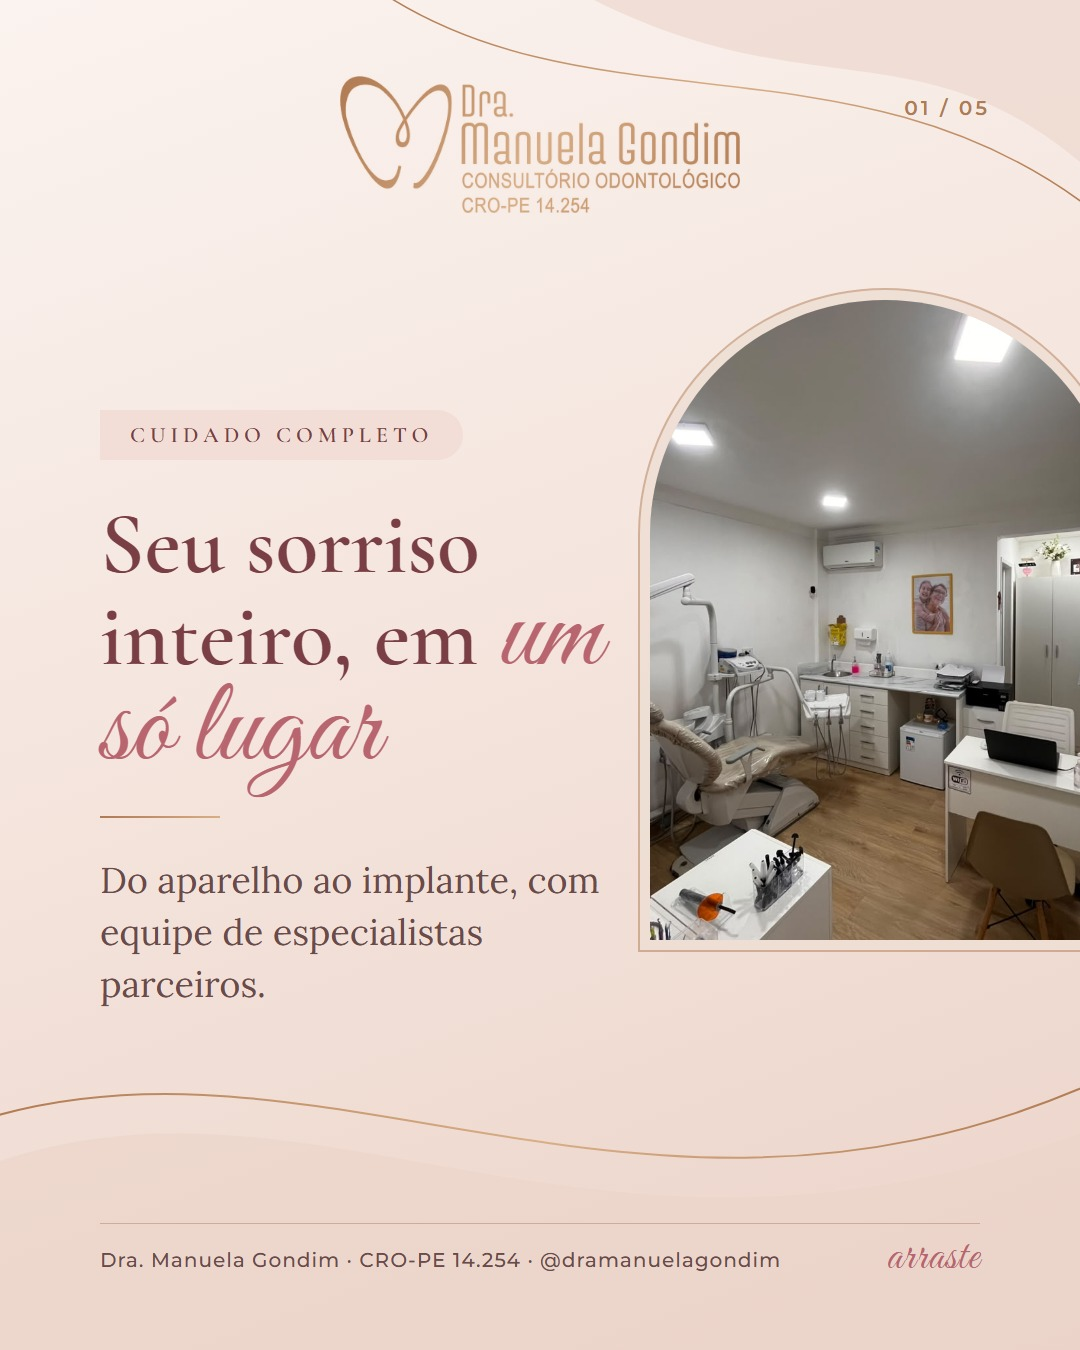
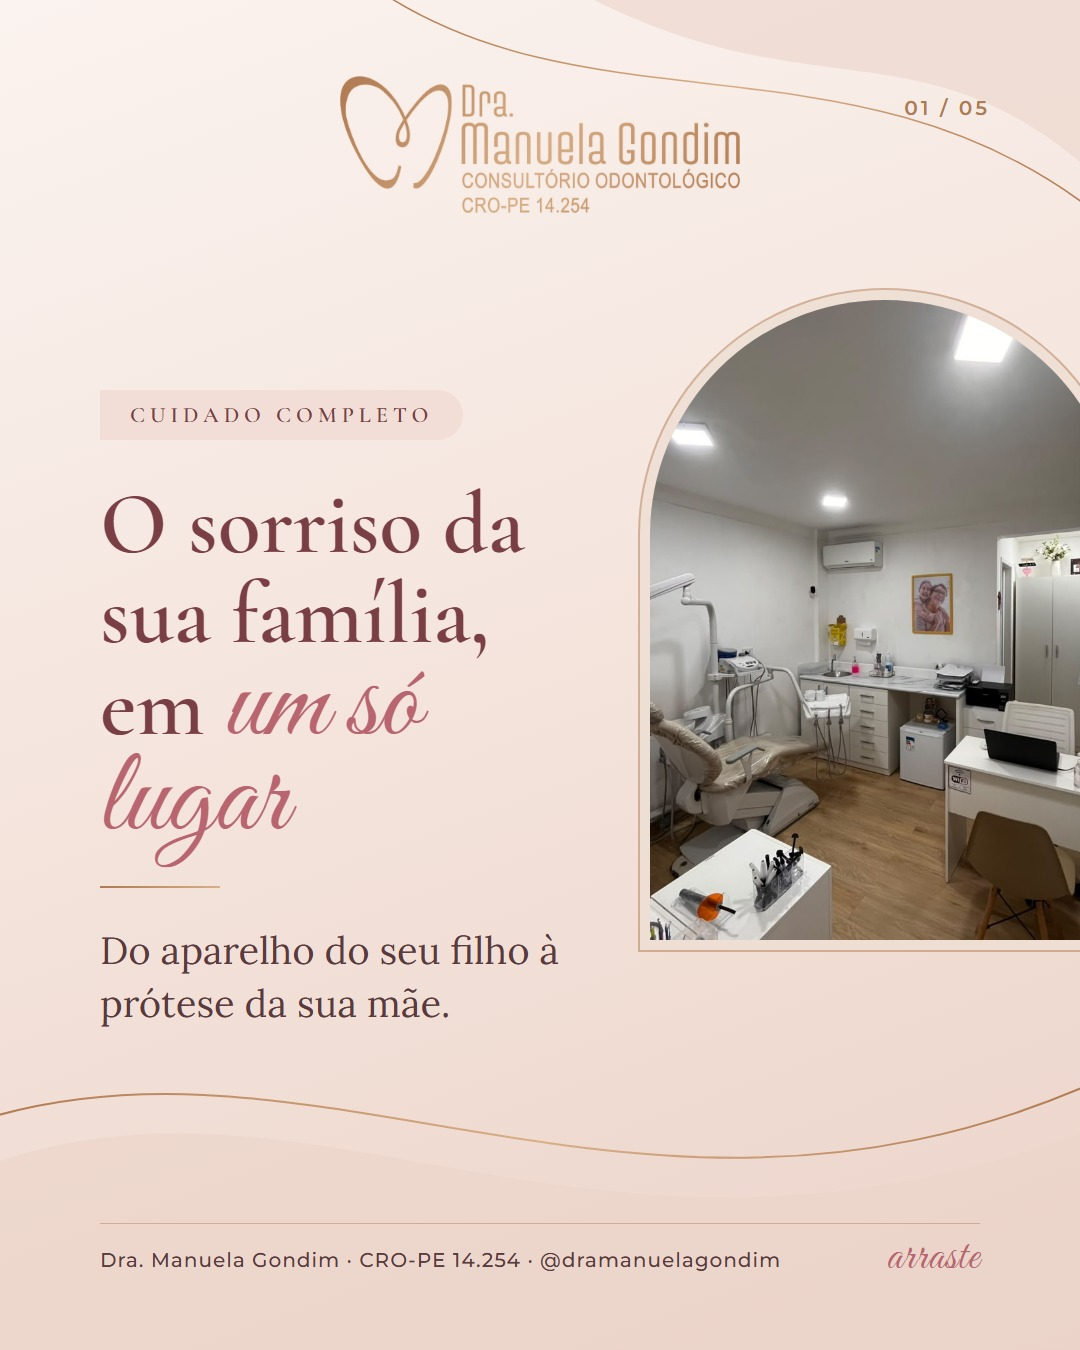
Conteúdo direcionado ao público (mulheres 25-54, Olinda e Paulista); bot sem IA paga; substitui mensagens antigas

diff --git a/posts/previa.html b/posts/previa.html
@@ -12,34 +12,38 @@ pre{white-space:pre-wrap;font-family:inherit;font-size:14px;line-height:1.5;back
 </style></head><body><h1>Prévia de conteúdo</h1>
         <article>
           <header><b>2026-11-03 · 12:00</b>
-            <span>carrossel · educa</span>
+            <span>carrossel · familia</span><span class="revisar">⚠ revisar</span>
             <span class="status">rascunho</span></header>
-          <div class="slides"><img src="2026-11-03-cuidados-aparelho/slide-01.jpg" loading="lazy"><img src="2026-11-03-cuidados-aparelho/slide-02.jpg" loading="lazy"><img src="2026-11-03-cuidados-aparelho/slide-03.jpg" loading="lazy"><img src="2026-11-03-cuidados-aparelho/slide-04.jpg" loading="lazy"><img src="2026-11-03-cuidados-aparelho/slide-05.jpg" loading="lazy"><img src="2026-11-03-cuidados-aparelho/slide-06.jpg" loading="lazy"><img src="2026-11-03-cuidados-aparelho/slide-07.jpg" loading="lazy"></div>
-          <pre>Usar aparelho é um trabalho em equipe: eu cuido do planejamento e você cuida do dia a dia 😁🦷
+          <div class="slides"><img src="2026-11-03-sinais-aparelho-filho/slide-01.jpg" loading="lazy"><img src="2026-11-03-sinais-aparelho-filho/slide-02.jpg" loading="lazy"><img src="2026-11-03-sinais-aparelho-filho/slide-03.jpg" loading="lazy"><img src="2026-11-03-sinais-aparelho-filho/slide-04.jpg" loading="lazy"><img src="2026-11-03-sinais-aparelho-filho/slide-05.jpg" loading="lazy"><img src="2026-11-03-sinais-aparelho-filho/slide-06.jpg" loading="lazy"><img src="2026-11-03-sinais-aparelho-filho/slide-07.jpg" loading="lazy"><img src="2026-11-03-sinais-aparelho-filho/slide-08.jpg" loading="lazy"></div>
+          <pre>Mãe, esse post é pra você salvar 💕
 
-Separei 5 cuidados simples que fazem toda a diferença no resultado do tratamento. Salva esse post para consultar depois e manda para aquele amigo que acabou de colocar aparelho! 💖
+Muitas vezes a gente só pensa em aparelho quando os dentes já estão bem tortinhos. Mas alguns sinais aparecem bem antes — e observar cedo pode deixar o tratamento muito mais simples.
 
-Ficou com alguma dúvida? Me chama no WhatsApp pelo link da bio.
+Seu filho tem algum desses sinais? Me conta aqui nos comentários ou me chama no WhatsApp que eu te explico com calma 🦷✨
 
+📍 Olinda Shopping, sala 40 — pertinho de quem é de Olinda e de Paulista
+Cada caso é único: só a avaliação presencial define o melhor caminho.
 Dra. Manuela Gondim · CRO-PE 14.254
 
-#ortodontiaolinda #aparelhodental #dentistaolinda #ortodontista #sorriso #dentistarecife #olinda</pre>
+#ortodontiainfantil #dentistaolinda #dentistapaulista #paulistape #olinda #maternidade #aparelhodental</pre>
         </article>
         <article>
           <header><b>2026-11-04 · 19:00</b>
             <span>carrossel · mito-verdade</span>
             <span class="status">rascunho</span></header>
           <div class="slides"><img src="2026-11-04-mito-aparelho-adulto/slide-01.jpg" loading="lazy"><img src="2026-11-04-mito-aparelho-adulto/slide-02.jpg" loading="lazy"><img src="2026-11-04-mito-aparelho-adulto/slide-03.jpg" loading="lazy"><img src="2026-11-04-mito-aparelho-adulto/slide-04.jpg" loading="lazy"><img src="2026-11-04-mito-aparelho-adulto/slide-05.jpg" loading="lazy"></div>
-          <pre>&quot;Já passei da idade de usar aparelho&quot; — escuto muito isso aqui no consultório! 😅
+          <pre>&quot;Doutora, eu já passei da idade de usar aparelho&quot; — é uma das frases que eu mais escuto aqui no consultório 😅
 
-A verdade é que a ortodontia não tem idade: o que importa é a saúde da gengiva e dos ossos que sustentam os dentes. E hoje existem opções bem mais discretas do que aquele aparelho que a gente lembra da escola ✨
+E quase sempre vem de mulheres incríveis que cuidaram primeiro dos filhos, da casa, do trabalho… e deixaram o próprio sorriso para depois 💕
 
-Qual desses você achava que era verdade? Conta aqui nos comentários 👇
+A verdade é que a ortodontia não tem idade: o que importa é a saúde da gengiva e dos ossos. E hoje existem opções bem mais discretas do que aquele aparelho que a gente lembra da escola ✨
+
+Qual desses você achava que era verdade? Conta aqui 👇 E se quiser tirar dúvidas, me chama no WhatsApp.
 
 Cada caso é único — só a avaliação presencial define o melhor tratamento.
 Dra. Manuela Gondim · CRO-PE 14.254
 
-#ortodontiaadulto #aparelhodental #alinhadores #ortodontiaolinda #dentistaolinda #dentistarecife #sorriso</pre>
+#ortodontiaadulto #aparelhodental #alinhadores #autoestima #dentistaolinda #dentistapaulista #paulistape</pre>
         </article>
         <article>
           <header><b>2026-11-05 · 09:00</b>
@@ -55,14 +59,14 @@ Dra. Manuela Gondim · CRO-PE 14.254
             <span>carrossel · vitrine</span>
             <span class="status">rascunho</span></header>
           <div class="slides"><img src="2026-11-06-tudo-num-lugar/slide-01.jpg" loading="lazy"><img src="2026-11-06-tudo-num-lugar/slide-02.jpg" loading="lazy"><img src="2026-11-06-tudo-num-lugar/slide-03.jpg" loading="lazy"><img src="2026-11-06-tudo-num-lugar/slide-04.jpg" loading="lazy"><img src="2026-11-06-tudo-num-lugar/slide-05.jpg" loading="lazy"></div>
-          <pre>Sabe aquela correria de ir num dentista para cada coisa? Aqui não precisa 💖
+          <pre>Sabe aquela correria de levar cada um da família num dentista diferente? Aqui não precisa 💖
 
-No consultório você encontra cuidado completo para o sorriso: ortodontia, clareamento, estética, implantes, próteses, canal, cirurgias e prevenção. Eu faço a sua avaliação e, quando o caso pede outra especialidade, você conta com a nossa equipe de especialistas parceiros 🦷✨
+No consultório você encontra cuidado completo para o sorriso de todo mundo: ortodontia (de criança e de adulto), clareamento, estética, implantes, próteses, canal, cirurgias e prevenção. Eu faço a avaliação e, quando o caso pede outra especialidade, vocês contam com a nossa equipe de especialistas parceiros 🦷✨
 
-📍 Olinda Shopping, sala 40 — Bairro Novo, Olinda
+📍 Olinda Shopping, sala 40 — Bairro Novo, pertinho de Paulista
 📲 Agende pelo WhatsApp no link da bio
 
 Dra. Manuela Gondim · CRO-PE 14.254
 
-#dentistaolinda #dentistarecife #ortodontiaolinda #implantedentario #clareamentodental #odontologia #olinda</pre>
+#dentistaolinda #dentistapaulista #paulistape #ortodontiainfantil #protesedentaria #clareamentodental #olinda</pre>
         </article></body></html>

diff --git a/scripts/bot.py b/scripts/bot.py
@@ -5,7 +5,7 @@
 
 Roda no GitHub Actions (.github/workflows/bot.yml). Variáveis de ambiente:
     TELEGRAM_TOKEN, TELEGRAM_CHAT_IDS (separados por vírgula), REPO_RAW_URL
-    ANTHROPIC_API_KEY (opcional): sem ela, o pedido de ajuste fica anotado no post para o agente semanal.
+O bot não usa IA (custo zero): pedidos de ajuste ficam anotados no post e a rotina diária do agente aplica.
 
 Quem aprova é só quem está em TELEGRAM_CHAT_IDS; mensagens de outras pessoas são ignoradas.
 """
@@ -13,12 +13,10 @@ import datetime
 import hashlib
 import json
 import os
-import re
 import sys
 from pathlib import Path
 
 import requests
-import yaml
 
 import posts
 
@@ -26,7 +24,6 @@ TOKEN = os.environ.get("TELEGRAM_TOKEN", "")
 CHATS = {int(c) for c in os.environ.get("TELEGRAM_CHAT_IDS", "").split(",") if c.strip()}
 RAW = os.environ.get("REPO_RAW_URL", "").rstrip("/")
 ESTADO = posts.RAIZ / "estado" / "telegram.json"
-PRECISA_RENDER = posts.RAIZ / ".precisa_render"  # pastas a re-renderizar, uma por linha
 
 ROTULO = {"aprovado": "✅ Aprovado", "recusado": "❌ Recusado", "ajuste": "✏ Em ajuste"}
 
@@ -81,7 +78,14 @@ def enviar():
         imagens = sorted(pasta.glob("slide-*.jpg"))
         if not imagens:
             continue
+        antiga = post.pop("substitui_msg", None)
         for chat in CHATS:
+            if antiga:  # tira os botões da versão anterior para não aprovar a errada
+                try:
+                    tg("editMessageText", chat_id=chat, message_id=antiga,
+                       text="🔄 Substituído por uma versão nova (logo abaixo).")
+                except RuntimeError:
+                    pass
             midia = [{"type": "photo", "media": url_imagem(pasta, i)} for i in imagens[:10]]
             if len(midia) == 1:
                 tg("sendPhoto", chat_id=chat, photo=midia[0]["media"])
@@ -153,59 +157,13 @@ def tratar_texto(msg):
                         "toque em ✏ Ajustar no post e depois me escreva o que quer.")
         return
 
+    # Sem custo extra: o bot só anota o pedido; quem aplica é a rotina diária do agente (dentro da assinatura).
     post = posts.carregar(pendente)
     post.pop("aguardando_ajuste", None)
     post.setdefault("pedidos_ajuste", []).append(texto)
-
-    if not os.environ.get("ANTHROPIC_API_KEY"):
-        posts.salvar(pendente, post)
-        responder(chat, "Anotei o seu pedido ✍ O ajuste será feito na próxima rodada de criação dos posts.")
-        return
-
-    responder(chat, "Ajustando… em alguns minutos te mando a nova versão ⏳")
-    try:
-        novo = reescrever(post, texto)
-    except Exception as e:  # falha da IA não pode travar o bot
-        print(f"ajuste falhou: {type(e).__name__}: {e}")
-        posts.salvar(pendente, post)
-        responder(chat, "Não consegui ajustar agora 😕 Deixei o pedido anotado para a próxima rodada.")
-        return
-    posts.salvar(pendente, novo)
-    with PRECISA_RENDER.open("a", encoding="utf-8") as f:
-        f.write(pendente.name + "\n")
-    print(f"ajustado: {pendente.name}")
-
-
-def reescrever(post: dict, pedido: str) -> dict:
-    import anthropic
-
-    contexto = "\n\n".join((posts.RAIZ / arq).read_text(encoding="utf-8")
-                           for arq in ("CLAUDE.md", "marca/guia.md", "marca/estrategia.md"))
-    atual = {k: v for k, v in post.items() if k not in ("telegram_msg", "pedidos_ajuste")}
-    resposta = anthropic.Anthropic().beta.messages.create(
-        model="claude-opus-5-5",
-        max_tokens=16000,
-        output_config={"effort": "medium"},
-        betas=["server-side-fallback-2026-07-01"],
-        fallbacks="default",
-        system=[{"type": "text", "text": contexto, "cache_control": {"type": "ephemeral"}}],
-        messages=[{"role": "user", "content": (
-            "A Dra. Manuela pediu um ajuste neste post. Reescreva o post.yaml aplicando o pedido, "
-            "respeitando o guia de marca e as regras do CFO. Mantenha data e hora, a menos que ela peça para mudar. "
-            "Responda somente com o YAML completo, sem explicações.\n\n"
-            f"Pedido da Dra.: {pedido}\n\npost.yaml atual:\n"
-            + yaml.safe_dump(atual, allow_unicode=True, sort_keys=False, default_flow_style=False))}],
-    )
-    if resposta.stop_reason == "refusal":
-        raise RuntimeError("pedido recusado pelo modelo")
-    texto = next(b.text for b in resposta.content if b.type == "text")
-    texto = re.sub(r"^```(?:yaml)?\s*|\s*```$", "", texto.strip())
-    novo = yaml.safe_load(texto)
-    if not isinstance(novo, dict) or not novo.get("slides"):
-        raise ValueError("resposta sem slides")
-    novo["status"] = "rascunho"  # volta para aprovação
-    novo["pedidos_ajuste"] = post.get("pedidos_ajuste", [])
-    return novo
+    posts.salvar(pendente, post)
+    responder(chat, "Anotei o seu pedido ✍ Amanhã cedo te mando a nova versão para aprovar.")
+    print(f"pedido de ajuste anotado: {pendente.name}")
 
 
 def processar():

diff --git a/marca/estrategia.md b/marca/estrategia.md
@@ -5,7 +5,7 @@
 ## Objetivo
 
 1. Manter o perfil **sempre ativo** sem depender da disposição da Dra. Manuela.
-2. Posicionar como **ortodontista em Olinda** (foco vende; a amplitude multidisciplinar aparece na avaliação).
+2. Posicionar como **a dentista de confiança da mulher de Olinda e Paulista — e da família dela** (foco vende; a amplitude multidisciplinar aparece na avaliação).
 3. Converter seguidores em **conversas no WhatsApp → avaliações**. O anúncio vende resultado e autoridade, nunca preço.
 
 ## Linhas que puxam a captação
@@ -26,13 +26,16 @@ Horários padrão: feed às **12h** ou **19h**; stories às **9h**.
 
 ### Banco de pautas automáticas (quando não há material da Dra.)
 
-| Pilar | Peso | Exemplos |
+Público-alvo: ver `marca/publico.md` — mulher de 25 a 54 anos, mãe, de Olinda/Paulista ("Carla", 38).
+
+| Pilar | Peso | Exemplos (sempre pensando na Carla) |
 |---|---|---|
-| Educa — dúvidas e cuidados | 35% | Quanto tempo dura o aparelho? Lente × faceta × clareamento. Por que a dentadura solta? |
-| Mito ou verdade | 20% | "Aparelho é só para adolescente" — MITO |
-| Vitrine multidisciplinar | 15% | Implantes, clareamento, próteses — "tudo num só lugar" |
-| Conexão — bastidores, biossegurança, Olinda | 15% | Planejamento de um caso, tecnologia usada, datas |
-| Convite — CTA para avaliação | 15% | "Seu sorriso merece uma avaliação" |
+| Ela mesma — autoestima e "nunca é tarde" | 25% | Aparelho discreto em adulta; lente × faceta × clareamento; "um dia eu cuido de mim" é hoje |
+| A família dela — filhos | 20% | Quando levar o filho ao ortodontista? Sinais na infância; chupeta e respiração pela boca |
+| Mito ou verdade | 15% | "Aparelho é só para adolescente" — MITO |
+| Conexão — a Dra., bastidores, Olinda/Paulista | 20% | Rotina, vôlei de praia, viagens de estudo, o consultório (é o que mais engaja) |
+| 45+ — voltar a sorrir | 10% | Próteses, reabilitação, "sorrir sem vergonha" (para ela ou para a mãe dela) |
+| Convite — CTA para avaliação | 10% | "Me chama no WhatsApp que eu te explico" |
 
 Regras:
 - Pelo menos 1 post por semana termina com convite para a consulta de avaliação (WhatsApp).
@@ -54,5 +57,6 @@ Regras:
 
 ## Hashtags base (escolher 5–8 por post)
 
-#ortodontiaolinda #ortodontistaolinda #dentistaolinda #dentistarecife #aparelhodental
-#sorriso #olinda #recife #alinhadores #clareamentodental #protesedentaria #lentesdecontato
+#ortodontiaolinda #dentistaolinda #dentistapaulista #paulistape #dentistarecife #aparelhodental
+#sorriso #olinda #recife #alinhadores #clareamentodental #protesedentaria #autoestima #ortodontiainfantil
+(Sempre incluir ao menos uma de Olinda e uma de Paulista.)

diff --git a/marca/publico.md b/marca/publico.md
@@ -1,0 +1,44 @@
+# Público — quem segue @dramanuelagondim
+
+> Fonte: Meta Business Suite → Insights → Público e Conteúdo (consulta de 31/10/2026, 2.759 seguidores).
+> Atualizar a cada 3 meses.
+
+## Dados
+
+| Faixa | Mulheres | Homens |
+|---|---|---|
+| 18–24 | 3,8% | 1,3% |
+| 25–34 | **22,3%** | 7,5% |
+| 35–44 | **28,7%** | 6,0% |
+| 45–54 | **15,6%** | 3,9% |
+| 55–64 | 6,2% | 1,8% |
+| 65+ | 2,5% | 0,4% |
+
+- **79% mulheres.** Mulheres de 25 a 54 anos = **2 em cada 3 seguidores**.
+- **Cidades:** Olinda 47,8% · **Paulista 21,8%** · Recife 13% · Jaboatão 1,5% · Abreu e Lima 1,2% · Igarassu 0,8%.
+- **O que performa:** stories pessoais (viagem, vôlei de praia aos domingos, "meu cantinho") têm até 2,5× a
+  visualização dos stories de procedimento. Antes e depois impulsionado: 16 conversas a R$ 5,33 cada (out/2026).
+- **Gargalo:** taxa de resposta das mensagens 10,7% (out/2026).
+
+## Persona principal: "Carla", 38 anos, de Olinda ou Paulista
+
+- Mãe, trabalha fora, cuida da casa e da família — **decide a saúde dos filhos** e, muitas vezes, do marido e dos pais.
+- Vaidosa, quer se sentir bonita e confiante, mas **se coloca por último**: "um dia eu cuido de mim".
+- Tem vergonha de algum detalhe do sorriso (dente torto, escurecido, falha). Acha que "passou da idade" para aparelho.
+- Confia em quem é próxima e real: segue a Dra. porque gosta **dela** (rotina, vôlei, consultório), não só da dentista.
+- Medo de dor e de "orçamento que não cabe" — responde bem a acolhimento e explicação simples.
+
+Personas secundárias: **mulher 45–54** (próteses, "voltar a sorrir sem vergonha", reabilitação) e
+**a mãe pelo filho** (ortodontia infantil e adolescente).
+
+## Como isso muda o conteúdo
+
+1. **Fale com ela:** linguagem acolhedora, feminina sem ser infantil; exemplos do dia a dia de mulher e mãe.
+2. **Três frentes de pauta**, em rodízio:
+   - **Ela mesma** — autoestima, "nunca é tarde", aparelho estético/alinhadores, clareamento, lentes.
+   - **A família dela** — "quando levar meu filho ao ortodontista?", sinais na infância, hábitos (chupeta, respirar pela boca).
+   - **A mãe/sogra/tia dela (45+)** — próteses, reabilitação, "sorrir sem vergonha".
+3. **Humanização é o que mais engaja:** pelo menos 1 post/semana de bastidor ou da vida da Dra.
+   (rotina, vôlei de praia, viagens de estudo, o "cantinho" do consultório). Peça material à Dra. via `pautas/`.
+4. **Local:** cite **Olinda e Paulista** (não só Olinda). Olinda Shopping, Bairro Novo, é pertinho de Paulista.
+5. **CTA:** convite leve e acolhedor ("me chama no WhatsApp que eu te explico"), nunca pressão.

diff --git a/CLAUDE.md b/CLAUDE.md
@@ -6,9 +6,10 @@ Instagram @dramanuelagondim sempre ativo, educativo e convidando para avaliaçã
 ## Antes de criar qualquer coisa, leia
 
 1. `marca/guia.md` — dados, tom de voz e **regras do CFO (obrigatórias)**.
-2. `marca/estrategia.md` — frequência, pilares e datas.
-3. `posts/` — os posts das últimas semanas, para **não repetir tema** e manter o rodízio de pilares.
-4. `pautas/` — se existir algum arquivo ali, é um pedido específico da Dra. Manuela: priorize.
+2. `marca/publico.md` — **quem segue a Dra.** (79% mulheres, 25–54 anos, Olinda e Paulista). Escreva para ela.
+3. `marca/estrategia.md` — frequência, pilares e datas.
+4. `posts/` — os posts das últimas semanas, para **não repetir tema** e manter o rodízio de pilares.
+5. `pautas/` — se existir algum arquivo ali, é um pedido específico da Dra. Manuela: priorize.
 
 ## Tarefa semanal
 

diff --git a/README.md b/README.md
@@ -39,7 +39,7 @@ Abra `posts/previa.html` para ver a semana.
 - [x] Gerador de artes + prévia
 - [x] Publicador automático (Instagram Graph API + GitHub Actions) — falta [configurar o token](docs/configurar-instagram.md)
 - [x] Bot do Telegram ("Sandra", @SecretariaDrManuela_bot): aprovação ✅ ✏ ❌ a cada 10 min (7h–0h)
-- [ ] Ajuste por IA no bot — falta o segredo `ANTHROPIC_API_KEY`
+- [x] Ajustes sem custo extra: o bot anota, a rotina diária do agente aplica (assinatura)
 - [ ] Envio de vídeos/Reels pela Dra. no bot
 - [ ] Agente semanal agendado na nuvem
 - [ ] Relatório mensal de desempenho
